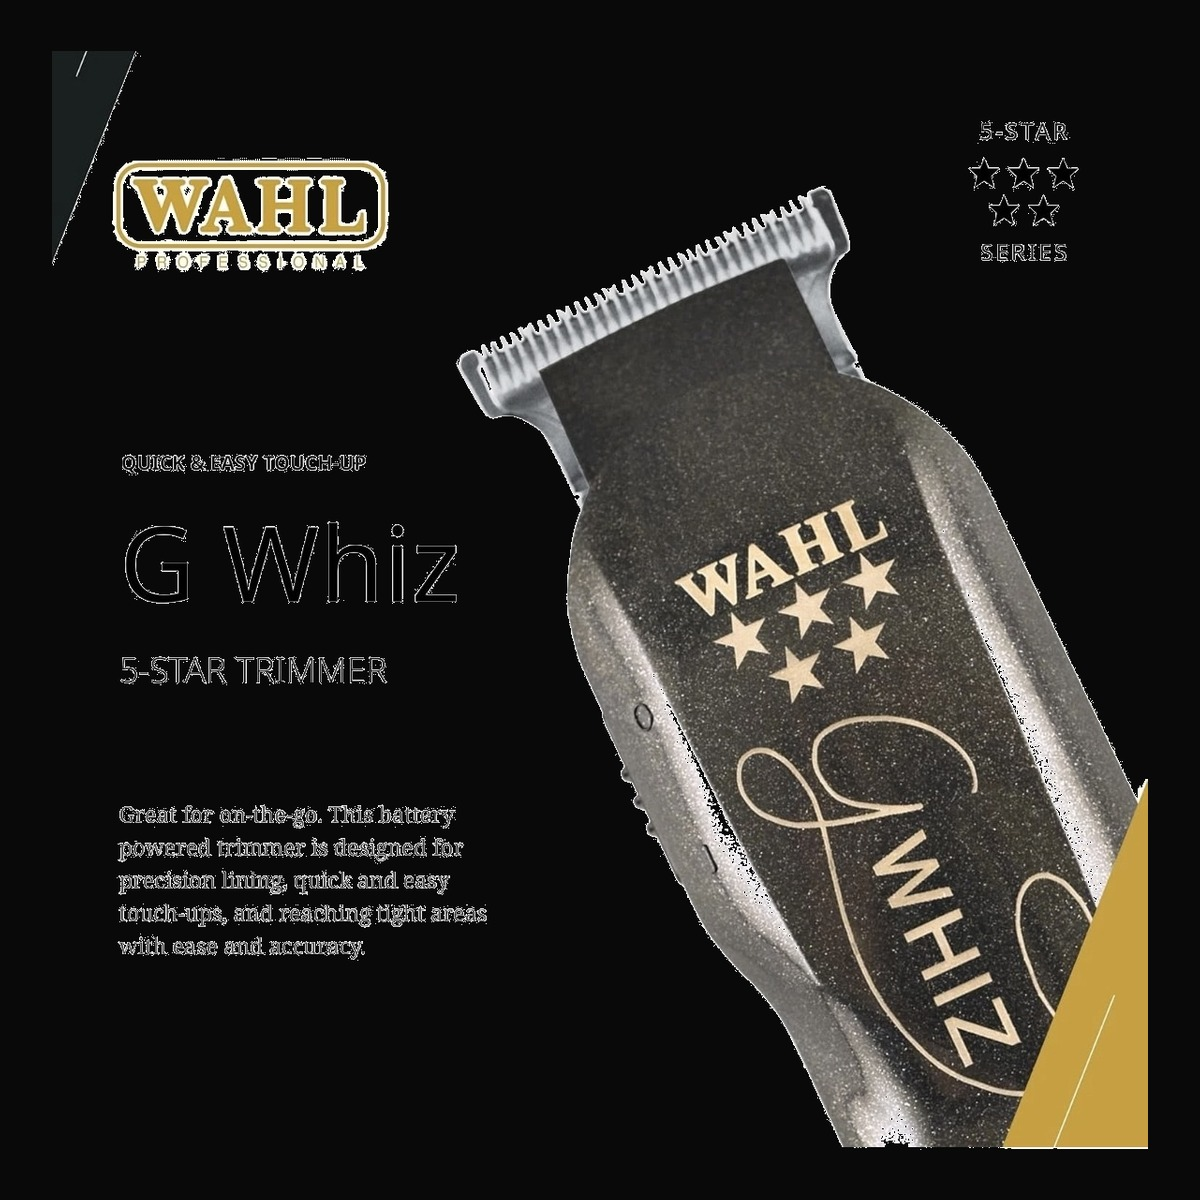
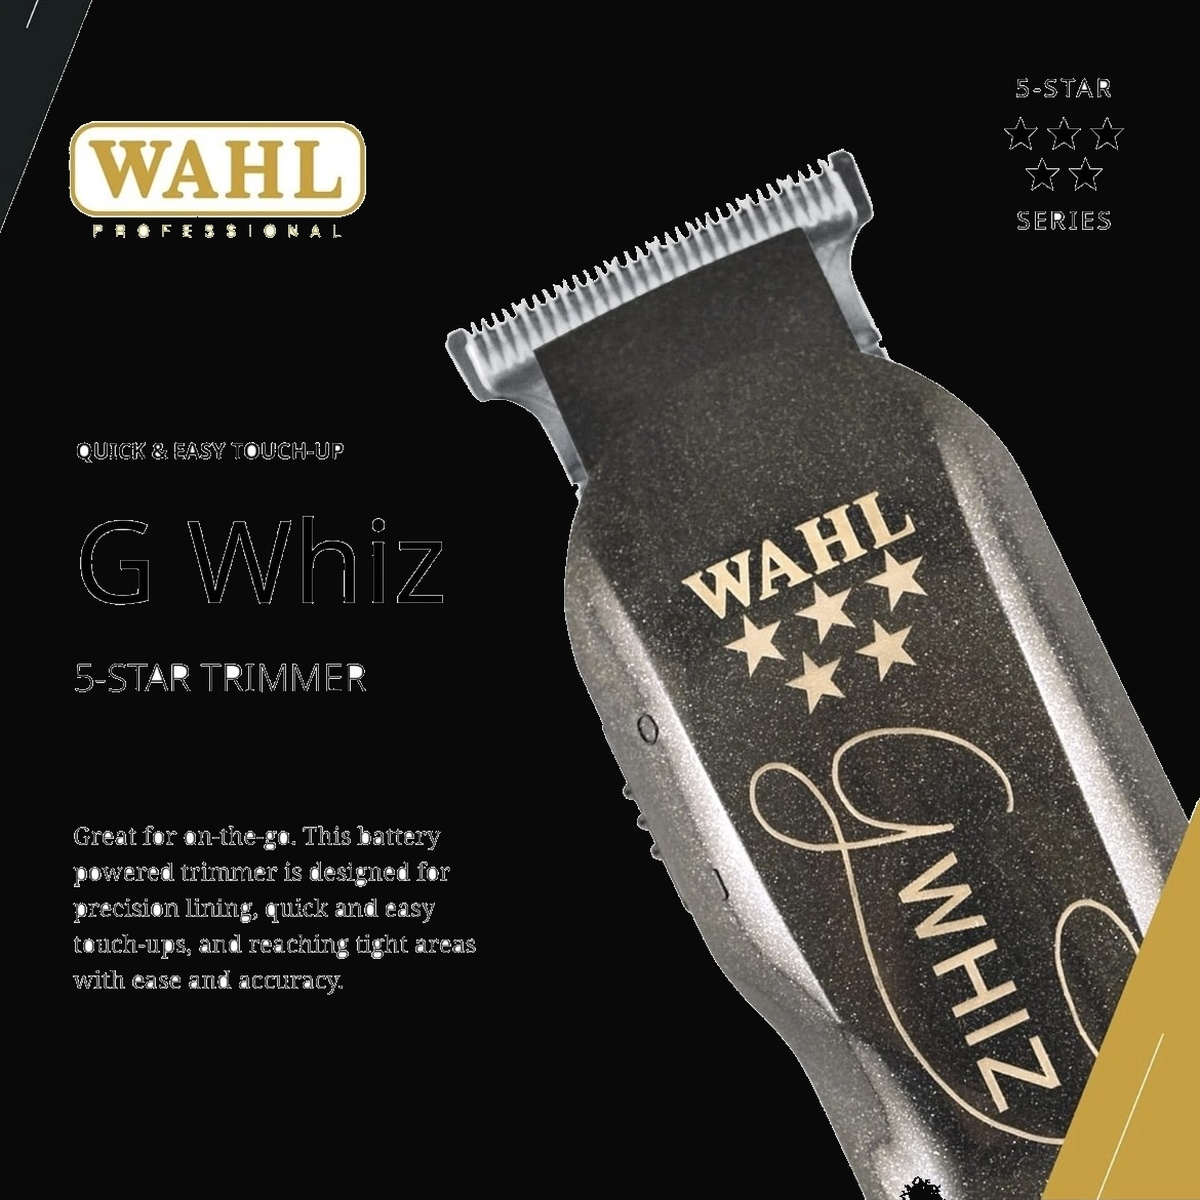
Fix G-Whiz gallery — remove noisy What’s-in-the-Box shot (#37)
* Fix G-Whiz gallery images on dark studio backgrounds.

Rebuild the What's-in-the-Box, features, and use shots by flooding
white paper to #090909 instead of rembg, which left white noise.

* Fix G-Whiz gallery: drop noisy box shot, darken features/use.

The What's-in-the-Box source was too low-res for a clean rembg/studio
conversion, so remove it from the gallery. Rebuild features and use on
#090909 and hover on the retail pack instead.

---------

diff --git a/src/data.js b/src/data.js
@@ -156,12 +156,11 @@ export const products = [
     price: 400,
     frame: "studio",
     image: "/products/wahl-g-whiz.jpg",
-    hoverImage: "/products/wahl-g-whiz-box.jpg",
+    hoverImage: "/products/wahl-g-whiz-pack.jpg",
     images: [
       "/products/wahl-g-whiz.jpg",
       "/products/wahl-g-whiz-features.jpg",
       "/products/wahl-g-whiz-use.jpg",
-      "/products/wahl-g-whiz-box.jpg",
       "/products/wahl-g-whiz-pack.jpg",
     ],
     blurb:
